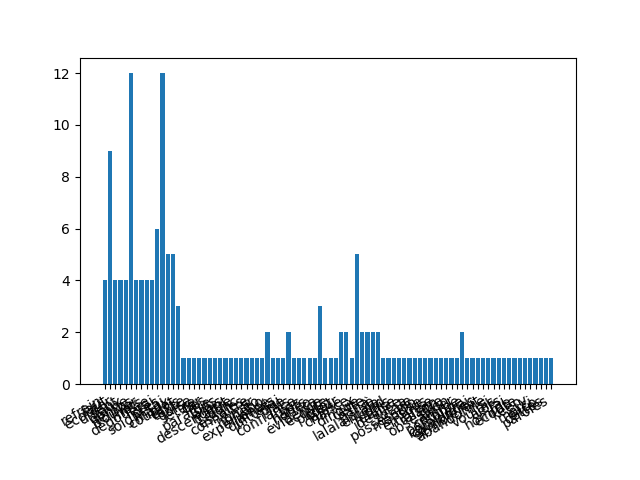
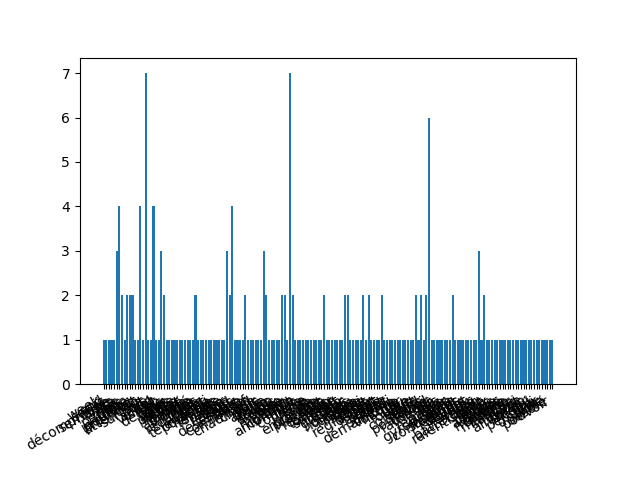
Ajout de la fonction emotions dans mon dossier

diff --git a/Siham/Scraping_genuis.py b/Siham/Scraping_genuis.py
@@ -1,4 +1,3 @@
-# Web scraping, pickle imports
 import requests
 from bs4 import BeautifulSoup
 from bs4.element import Tag as tg
@@ -19,4 +18,16 @@ def mots_genius(url):
         list += decouper(ligne)
     return list
 
-afficher(mots_genius("https://genius.com/Keenv-explique-moi-lyrics"))
+def emotions(url):
+    mots_finals = mots_genius(url)
+    dic = {}
+    for emotion in ["amour", "colere", "degout", "honte", "joie", "peur",\
+     "surprise", "tristesse"]:
+        dic[emotion] = 0
+        with open("../emotions/"+ emotion + ".txt", "r", encoding='utf-8') as fichier:
+            for mot in decouper(fichier.read()):
+                if mot in mots_finals :
+                    dic[emotion] += 1
+    afficher(dic)
+
+emotions("https://genius.com/Keenv-explique-moi-lyrics")

diff --git a/Siham/main_nltk.py b/Siham/main_nltk.py
@@ -13,7 +13,6 @@ def sentiment_analyse(texte):
 
 def decouper(texte):
     Aremplacer = '’\n\t' + string.punctuation
-
     texte_propre = texte.lower().translate( str \
     .maketrans(Aremplacer, len(Aremplacer)*' ', '…0123456789'))
     mots = word_tokenize(texte_propre, "french")
